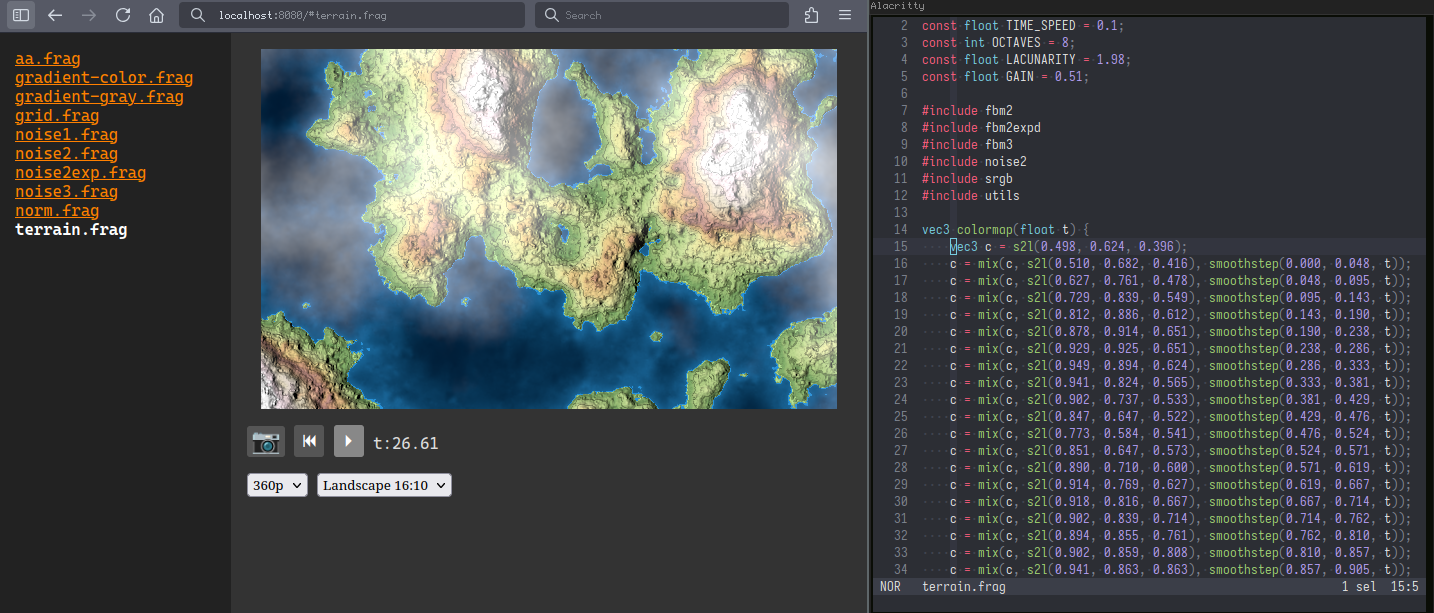
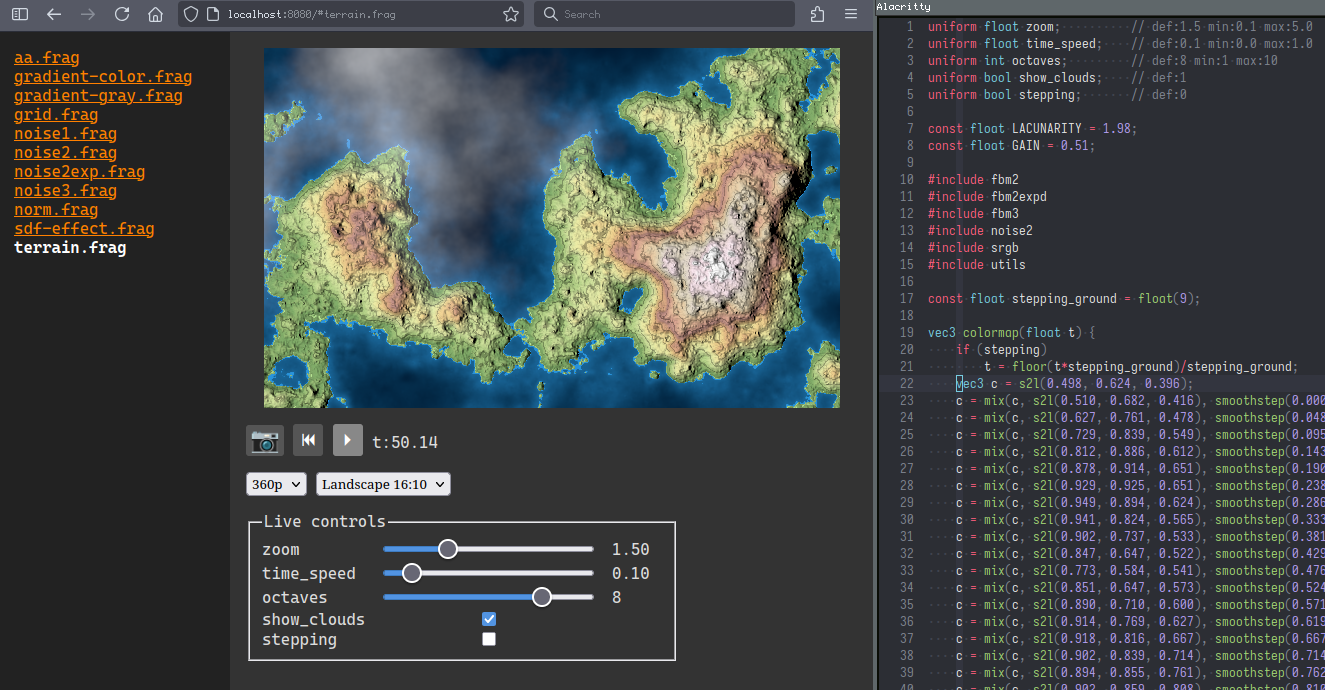
Add uniform live controls
Python requirement is bumped because of the use of `type`.

diff --git a/shader_workshop/www/shader.js b/shader_workshop/www/shader.js
@@ -20,7 +20,7 @@ class CanvasShader {
     return shader;
   }
 
-  loadFragment(fsSrc) {
+  loadFragment(fsSrc, controls) {
     const gl = this.gl;
 
     if (this.animationFrame !== null) {
@@ -53,6 +53,14 @@ class CanvasShader {
 
     const resolutionLoc = gl.getUniformLocation(prog, "resolution");
     const timeLoc = gl.getUniformLocation(prog, "time");
+
+    var control_info = {};
+    for (const control of controls) {
+      control_info[control.name] = {
+        w: document.getElementById(`ctl_${control.name}`),
+        loc: gl.getUniformLocation(prog, control.name),
+      };
+    }
 
     let startTime = null;
     let lastRefreshInfoTime = -1.0;
@@ -90,6 +98,17 @@ class CanvasShader {
       gl.useProgram(prog);
       gl.uniform2f(resolutionLoc, canvas.width, canvas.height);
       gl.uniform1f(timeLoc, t);
+
+      for (const control of controls) {
+        const info_ctl = control_info[control.name];
+        const w = info_ctl.w;
+        const loc = info_ctl.loc;
+
+        if      (control.type == "bool") gl.uniform1i(loc, w.checked ? 1 : 0);
+        else if (control.type == "f32")  gl.uniform1f(loc, parseFloat(w.value));
+        else if (control.type == "i32")  gl.uniform1i(loc, parseInt(w.value));
+      }
+
       gl.drawArrays(gl.TRIANGLES, 0, 3);
 
       if (action == Action.Screenshot) {
@@ -188,6 +207,53 @@ function renderRefList(refs) {
   }
 }
 
+function renderFragControls(controls) {
+  fragControls.textContent = "";
+  if (controls.length == 0) {
+    fragControls.style.visibility = "hidden";
+    return;
+  }
+
+  for (const control of controls) {
+    const w = document.createElement("input");
+    w.id = `ctl_${control.name}`;
+
+    const label = document.createElement("label");
+    label.htmlFor = w.id;
+    label.textContent = control.name;
+
+    const o = document.createElement("output");
+    o.id = `out_${control.name}`;
+
+    if (["f32", "i32"].includes(control.type)) {
+      w.type = "range";
+      if (control.type == "f32") {
+        w.step = 0.01;
+        w.oninput = function() { o.value = parseFloat(this.value).toFixed(2); }
+      } else {
+        w.step = 1;
+        w.oninput = function() { o.value = this.value; }
+      }
+      w.min = control.min;
+      w.max = control.max;
+      w.value = control.val;
+      w.oninput();
+    } else if (control.type == "bool") {
+      w.type = "checkbox";
+      w.checked = control.val;
+    }
+
+    fragControls.appendChild(label);
+    fragControls.appendChild(w);
+    fragControls.appendChild(o);
+  }
+
+  const legend = document.createElement("legend");
+  legend.textContent = "Live controls";
+  fragControls.appendChild(legend);
+  fragControls.style.visibility = "";
+}
+
 async function loadFromHash() {
   if (loading)
     return;
@@ -197,9 +263,12 @@ async function loadFromHash() {
     errorBlock.textContent = "";
     refList.textContent = "";
     const fs = await fetch(`/frag/${hash}`, {cache: 'no-store'}).then(r => r.json());
+    renderFragControls(fs.controls);
     try {
-      canvasShader.loadFragment(fs.content);
+      canvasShader.loadFragment(fs.content, fs.controls);
     } catch (error) {
+      fragControls.textContent = "";
+      fragControls.style.visibility = "hidden";
       errorBlock.innerText = error.message;
       renderRefList(fs.refs);
     }

diff --git a/shader_workshop/www/style.css b/shader_workshop/www/style.css
@@ -64,3 +64,11 @@ div#controls {
 }
 
 #infoLbl::before { content: "t:"; }
+
+#fragControls {
+  display: grid;
+  grid-template-columns: auto 1fr 50px; /* label, input, output */
+  column-gap: 1em;
+  align-items: center; /* vertical align */
+  max-width: 400px;
+}

diff --git a/shader_workshop/www/index.html b/shader_workshop/www/index.html
@@ -40,6 +40,7 @@
     </div>
     <pre id="errorBlock"></pre>
     <div id="refList"></div>
+    <fieldset id="fragControls"></fieldset>
   </main>
 </body>
 

diff --git a/shader_workshop/frag.py b/shader_workshop/frag.py
@@ -20,10 +20,48 @@ _FRAG_HEADER = dedent(
 )
 
 
+type Control = ControlI32 | ControlF32 | ControlBool
+
+
+@dataclass
+class ControlI32:
+    name: str
+    val: int = 0
+    min: int = 0
+    max: int = 100
+
+    @property
+    def typ(self) -> str:
+        return "i32"
+
+
+@dataclass
+class ControlF32:
+    name: str
+    val: float = 0.0
+    min: float = 0.0
+    max: float = 1.0
+
+    @property
+    def typ(self) -> str:
+        return "f32"
+
+
+@dataclass
+class ControlBool:
+    name: str
+    val: bool = False
+
+    @property
+    def typ(self) -> str:
+        return "bool"
+
+
 @dataclass
 class Fragment:
     content: str
     refs: list[str]
+    controls: list[Control]
 
 
 def extract_inc(line: str) -> str | None:
@@ -36,17 +74,61 @@ def extract_inc(line: str) -> str | None:
     return inc + ".glsl"
 
 
+_GL_TYPE_TO_CTL_CLS = dict(
+    float=ControlF32,
+    int=ControlI32,
+    bool=ControlBool,
+)
+
+
+def extract_control(line: str) -> Control | None:
+    r = r"\s*uniform\s+(?P<type>float|int|bool)\s+(?P<name>\w+)\s*;(\s*//\s*(?P<com>.*))?\s*$"
+    m = re.match(r, line)
+    if not m:
+        return None
+    typ, name, com = m.group("type", "name", "com")
+    ctl = _GL_TYPE_TO_CTL_CLS[typ](name)
+    if com:
+        for m in re.finditer(r"(?P<key>\w+)\s*:\s*(?P<val>[\d\.]+)", com):
+            k, v = m.group("key", "val")
+            if isinstance(ctl, ControlF32):
+                v = float(v)
+                if k == "min":
+                    ctl.min = v
+                elif k == "max":
+                    ctl.max = v
+                elif k == "def":
+                    ctl.val = v
+            elif isinstance(ctl, ControlI32):
+                v = int(v)
+                if k == "min":
+                    ctl.min = v
+                elif k == "max":
+                    ctl.max = v
+                elif k == "def":
+                    ctl.val = v
+            elif isinstance(ctl, ControlBool):
+                ctl.val = bool(int(v))
+    return ctl
+
+
 def _read_shader_rec(
     path: Path,
     included: dict[str, int],
     ln: bool = True,
     cur_fid: int = 0,
-) -> str:
+) -> tuple[str, list[Control]]:
     content = []
     fid = cur_fid
     included[path.name] = cur_fid
+    controls = []
     with open(path) as f:
         for i, line in enumerate(f, 1):
+            ctl = extract_control(line)
+            if ctl:
+                controls.append(ctl)
+                content.append(line)
+                continue
             inc = extract_inc(line)
             if not inc:
                 content.append(line)
@@ -54,13 +136,14 @@ def _read_shader_rec(
             if inc in included:
                 continue
             fid += 1
-            inc_content = _read_shader_rec(path.parent / inc, included, ln, fid)
+            inc_content, ctls = _read_shader_rec(path.parent / inc, included, ln, fid)
+            controls += ctls
             if ln:
                 content.append(f"#line 1 {fid}\n")
             content.append(inc_content)
             if ln:
                 content.append(f"#line {i+1} {cur_fid}\n")
-    return "".join(content)
+    return "".join(content), controls
 
 
 def read_shader(
@@ -70,7 +153,7 @@ def read_shader(
 ) -> Fragment:
     included = dict()
     header = _FRAG_HEADER if add_header else ""
-    content = _read_shader_rec(path, included, set_lines_directives)
+    content, controls = _read_shader_rec(path, included, set_lines_directives)
     swapped = {v: k for k, v in included.items()}
     refs = [swapped[i] for i in range(len(swapped))]
-    return Fragment(header + content, refs)
+    return Fragment(header + content, refs, controls)

diff --git a/shader_workshop/server.py b/shader_workshop/server.py
@@ -1,7 +1,7 @@
 import asyncio
 import json
 import sys
-from dataclasses import dataclass
+from dataclasses import asdict, dataclass
 from pathlib import Path
 from typing import Self
 
@@ -157,7 +157,8 @@ async def _index(_):
 async def _frag(request):
     fname = request.match_info["name"]
     frag = read_shader(_SHADER_DIR / f"{fname}.frag")
-    data = dict(content=frag.content, refs=frag.refs)
+    controls = [asdict(c) | dict(type=c.typ) for c in frag.controls]
+    data = dict(content=frag.content, refs=frag.refs, controls=controls)
     return web.json_response(data)
 
 

diff --git a/README.md b/README.md
@@ -9,6 +9,7 @@ code editor, and having them rendered in your browser through WebGL2.
 ## Features
 
 - Hot reload
+- Live controls for basic uniforms
 - `#include` directive
 - Play/Pause/Reset time
 - Screenshot
@@ -44,6 +45,20 @@ Every fragment gets the following uniforms as input:
 They must write on the `vec4 out_color` output to produce a color.
 
 The compatibility is currently set to `300 es`.
+
+## Live controls
+
+To expose controls to the web UI, declare a uniform in your fragment shader.
+Optionally, in the comment beside, you can specify the default value and ranges.
+For example:
+
+```glsl
+uniform float angle; // def:0.7 min:0.6 max:0.9
+uniform int steps;   // def:7 min:0 max:10
+uniform bool debug;  // def:1
+```
+
+Currently, only `float`, `int` and `bool` are supported.
 
 ## Includes
 

diff --git a/CHANGELOG.md b/CHANGELOG.md
@@ -7,6 +7,9 @@ and this project adheres to [Semantic Versioning](https://semver.org/spec/v2.0.0
 
 ## Unreleased
 
+### Added
+- Uniform live controls for `float`, `int` and `bool`
+
 ### Fixed
 - `sw-frag --no-header` function has been renamed to `--header`
 
@@ -14,6 +17,7 @@ and this project adheres to [Semantic Versioning](https://semver.org/spec/v2.0.0
 - Error messages do not dump the shader anymore: the error lines in the error
   messages now correspond to the original line numbers in the fragment and
   include files.
+- Python minimal requirement is bumped to 3.12
 
 ## [0.3.0] - 2025-06-19
 
